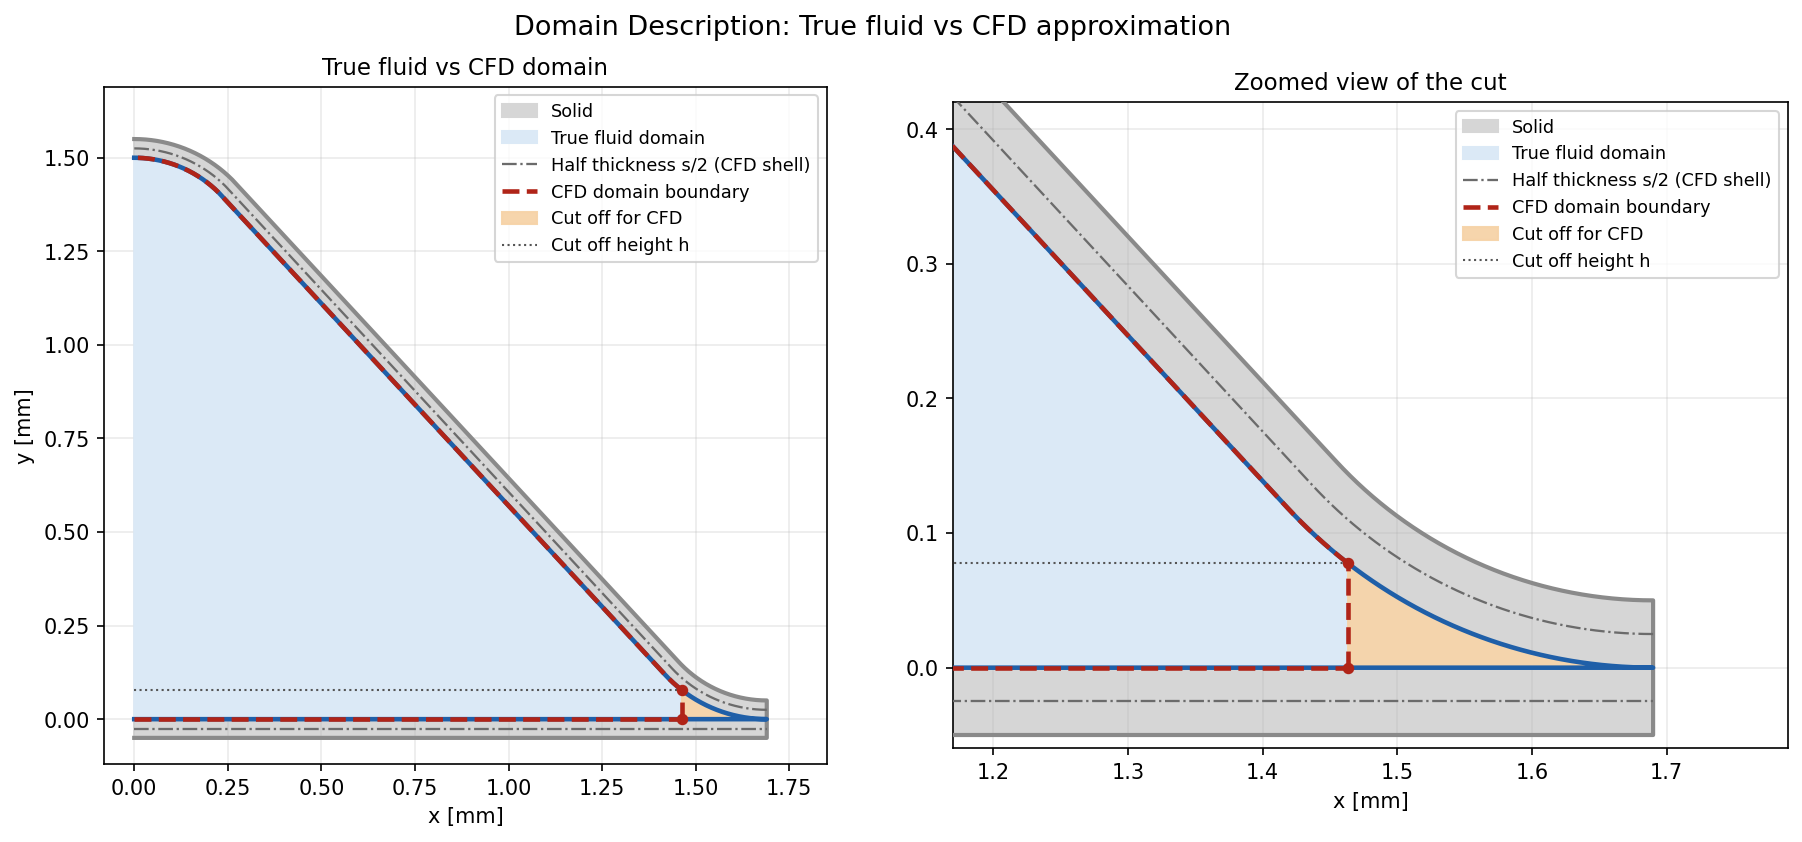
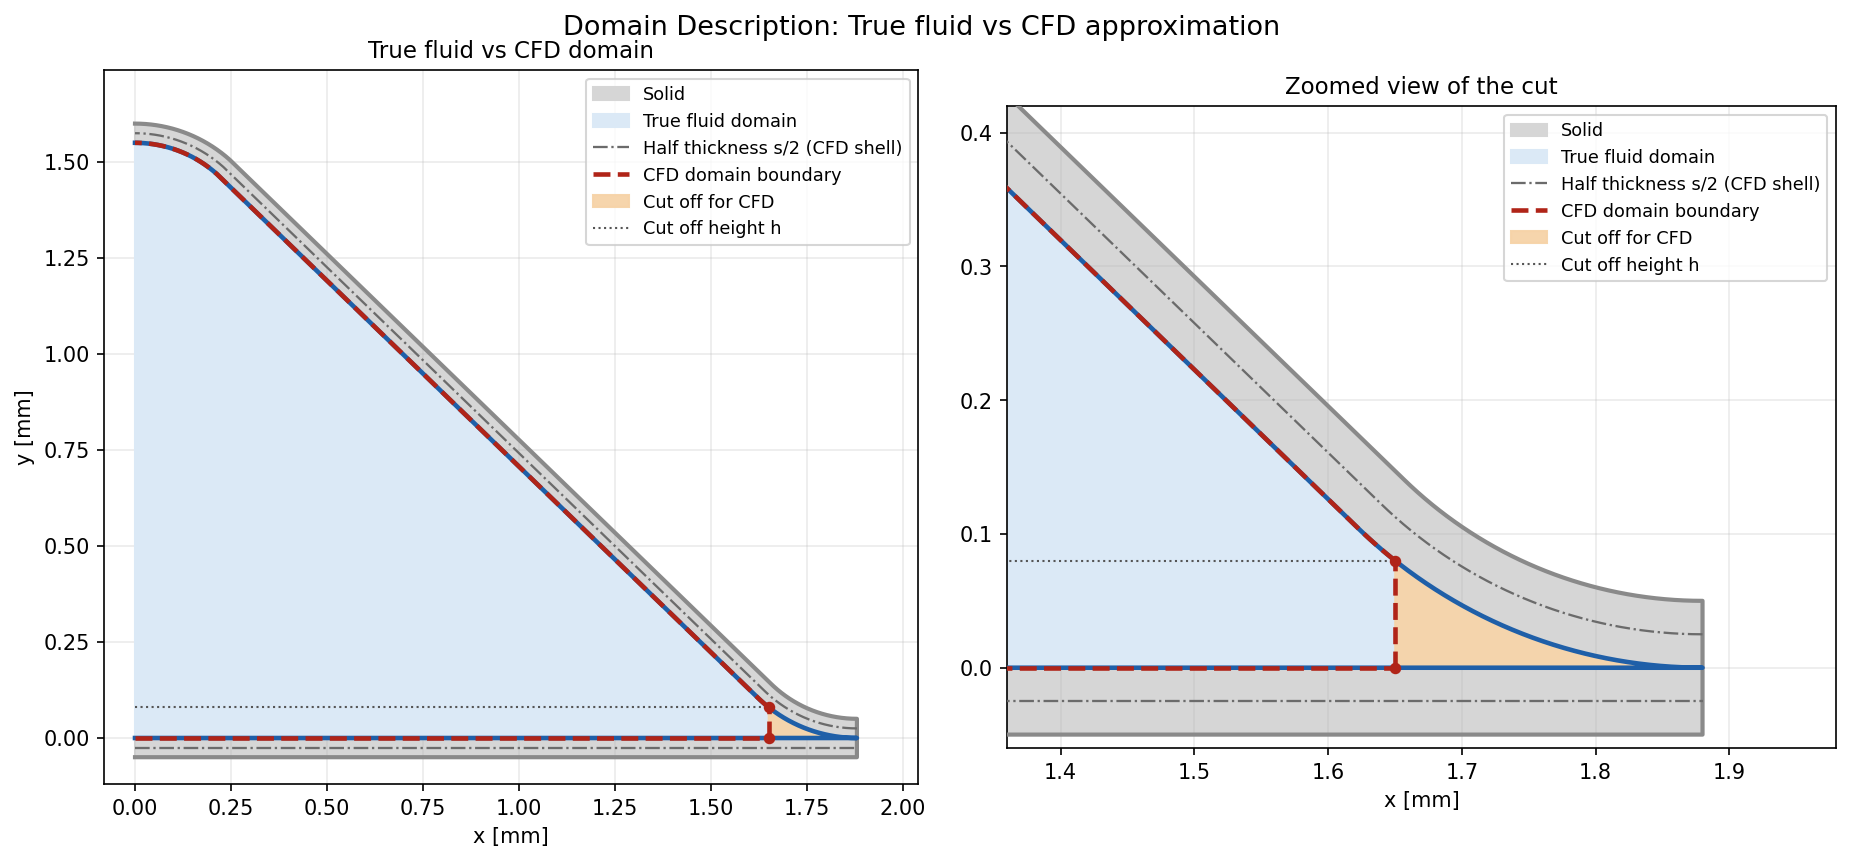
corrected baseline

diff --git a/workflows/microchannel/mesher/distribution.py b/workflows/microchannel/mesher/distribution.py
@@ -5,15 +5,15 @@ Three sizing rules, each matched to what the edge it sizes actually is:
 * **across the band** -- a layer count set at refinement 1 from the band's
   depth ``h`` (:func:`band_layers`), scaled linearly by ``refinement``,
   graded fine at the wall. ``h`` is set by the cut, not by the domain, so
-  the per-mm budget cannot size it: ``h * NY_PER_MM`` is under one cell at
-  the nominal. One array (:attr:`Sizing.band_fr`) serves every edge that
+  the per-mm budget cannot size it: ``h * NY_PER_MM`` is under one cell
+  (0.96 at h = 0.08 mm, a = 1.6 mm). One array (:attr:`Sizing.band_fr`) serves every edge that
   spans the depth.
 * **along the floor** -- see ``CutMesh.build_cut_mesh``.
 * **along the wall** -- the hypotenuse's own arclength against the global
   target cell (:func:`wall_fractions`), split piece by piece: each fillet
   by the angle it sweeps, the flank as the slack between them. Sizing the
   wall off the height's budget instead under-resolves it by the slant
-  factor (1.55x at the nominal) and folds TFI cells at the crest.
+  factor (1.55x at a = 1.55, b = 1.69 mm) and folds TFI cells at the crest.
 """
 import math
 from dataclasses import dataclass
@@ -54,7 +54,7 @@ BAND_MIN_LAYERS_REF1 = 3
 # Curvature weighting on the wall: the arcs claim a share of the cell
 # budget larger than their share of the length,
 #     share = (L_arc/L) * (1 + g) / (1 + g * L_arc/L)
-# so g = 0 is purely length-proportional. At g = 1 the nominal's arcs get
+# so g = 0 is purely length-proportional. At g = 1 the arcs of a = 1.55, b = 1.69 mm get
 # 28% of the cells for 15% of the length (crest 7.9 deg/cell); g = 3 gave
 # a 5.3 deg/cell crest, 2.8x finer than the target cell. SAG_TOL below
 # still guarantees the chord error, so coarsening here cannot starve an arc.

diff --git a/workflows/microchannel/cycle_stats.py b/workflows/microchannel/cycle_stats.py
@@ -22,7 +22,7 @@ FO_DT = "delta_T"                 # multiFieldValue: T(inlet) - T(outlet)
 # Fractions of the period T: the inlet ramp tanh(sin(2*pi*t/T) * Ts) scales
 # with T (99 % reached 0.043*T after a reversal at Ts = 10), so a fixed time
 # trim would cut into the plateau at high N_rot and keep the ramp at low N_rot.
-# The values reproduce the former 0.08 s / 0.05 s at N_rot = 75 (T = 0.8 s).
+# At N_rot = 12 (T = 5 s) they discard 0.5 s / 0.31 s at each end.
 DP_TRIM_FRAC = 0.10      # [-] of T, discarded at each end of a pass
 DT_TRIM_FRAC = 0.0625    # [-] of T
 

diff --git a/workflows/microchannel/build_case.py b/workflows/microchannel/build_case.py
@@ -56,7 +56,7 @@ GRAD_Z_DIVISIONS = [(0.2, 0.30, 10.0), (0.6, 0.40, 1.0), (0.2, 0.30, 0.1)]
 # Report slices (controlDict "slices", pv_slices.py): z positions as
 # fractions of l. They land exactly on Z layer faces (stage boundaries at
 # 0.2/0.8 l, whole cells in the uniform middle stage), where cuttingPlane is
-# ill-defined, so the planes are nudged by SLICE_NUDGE * l (6 um at l = 60).
+# ill-defined, so the planes are nudged by SLICE_NUDGE * l (11 um at l = 110).
 SLICE_Z_FRACS = (0.2, 0.4, 0.6, 0.8)
 SLICE_NUDGE = 1e-4
 

diff --git a/workflows/microchannel/README.md b/workflows/microchannel/README.md
@@ -29,26 +29,28 @@ Results are written to `runs/microchannel_default/`.
 
 A run is driven by a JSON input file. The nominal channel is given in
 [`examples/microchannel_default.json`](../../examples/microchannel_default.json).
-Its values are the defaults listed in the table.
+Its values are the defaults listed in the table: the heat wheel HX5 of
+Zmrhal et al. [1, 2] at its lowest airflow, 1 400 m³/h per stream, and the
+standard speed of 12 rpm. The papers do not give R; 0.32 mm is assumed.
 
 | Group | Field | Default | Role |
 |---|---|---|---|
-| Geometry | `channel height a [mm]` | 1.55 | height to the outer crest of the foil |
-| | `half-wavelength b [mm]` | 1.69 | crest at x = 0, trough at x = b |
+| Geometry | `channel height a [mm]` | 1.6 | height to the outer crest of the foil |
+| | `half-wavelength b [mm]` | 1.88 | crest at x = 0, trough at x = b |
 | | `crest fillet radius R [mm]` | 0.32 | forming-tool radius |
 | | `foil gauge s [mm]` | 0.05 | **full** foil thickness t |
-| | `channel length l [mm]` | 60 | wheel depth = Z extrusion length |
-| Operation | `wheel speed N_rot [rpm]` | 75 | period T = 60 / N_rot of the flow reversal |
-| | `wheel_outer_diameter D_o [mm]` | 300 | wheel face, used for the channel count |
-| | `wheel_inner_diameter D_i [mm]` | 0 | hub, used for the channel count |
-| | `stream mass flow rate mdot [kg/s]` | 0.02223815 | mass flow of one stream, split over the channels of half the wheel face |
+| | `channel length l [mm]` | 110 | wheel depth = Z extrusion length |
+| Operation | `wheel speed N_rot [rpm]` | 12 | period T = 60 / N_rot of the flow reversal |
+| | `wheel_outer_diameter D_o [mm]` | 1010 | wheel face, used for the channel count |
+| | `wheel_inner_diameter D_i [mm]` | 120 | hub, used for the channel count |
+| | `stream mass flow rate mdot [kg/s]` | 0.46666667 | mass flow of one stream, split over the channels of half the wheel face |
 | | `hot inlet temperature [K]` | 298 | T_h1, enters at the inlet patch (forward pass) |
 | | `cold inlet temperature [K]` | 278 | T_c1, enters at the outlet patch (reverse pass) |
 | | `initial temperature [K]` | 288 | initial foil (shell) temperature |
 | Mesh & solver | `mesh refinement r` | 1.0 | mesh density; cell sizes scale as 1/r |
-| | `maxCo` | 3 | Courant limit of the adjustable time step |
-| | `nCorrectors` | 8 | PIMPLE pressure correctors |
-| | `end time [s]` | 50 | hard limit on simulated time |
+| | `maxCo` | 1 | Courant limit of the adjustable time step |
+| | `nCorrectors` | 2 | PIMPLE pressure correctors |
+| | `end time [s]` | 150 | hard limit on simulated time |
 | Run-time | `number of processors` | 12 | MPI ranks (1 = serial) |
 
 ---
@@ -300,8 +302,8 @@ both directions, constant c_p) at the periodic steady state, the foil
 stores no net heat per cycle, so the hot stream's drop equals the cold
 stream's rise, T_h1 − T_h2 = T_c2 − T_c1, and ε_h = ε_c.
 
-In the nominal run this equality is not reached exactly: ε_h = 0.670 and
-ε_c = 0.672, a persistent difference of about 0.33 % (Appendix A). The
+In the nominal run this equality is not reached exactly: ε_h = 0.772 and
+ε_c = 0.774, a remaining difference of about 0.30 % (Appendix A). The
 objective therefore uses the mean of both, which averages out this offset:
 
 ```math
@@ -311,11 +313,7 @@ objective therefore uses the mean of both, which averages out this offset:
 
 where `dT_forward` = T_h1 − T_h2 and `dT_reverse` = T_c2 − T_c1 are the
 mean inlet-to-outlet temperature differences of the forward and reverse
-pass. For the nominal run, ε = 0.6695.
-
-The BO model predicts a single value, so the two objectives are combined
-with ParEGO, which merges them into one value using randomly chosen weights
-in every iteration.
+pass. For the nominal run, ε = 0.7733 and dP_avg = 29.96 Pa.
 
 ### 7.4 Failed and infeasible cases
 
@@ -389,39 +387,33 @@ Inside the practical bounds no point is rejected.
 For balanced flow (the same ṁ both ways; constant c_p, which holds here)
 at a periodic steady state, the foil stores no net heat per cycle, so the
 hot drop T_h1 − T_h2 must equal the cold rise T_c2 − T_c1 and ε_h = ε_c
-(sec. 7.3). The nominal run shows a small, persistent difference, cycle by
-cycle:
+(sec. 7.3). The nominal run shows a small difference that decays only
+slowly, cycle by cycle:
 
 | Cycle | Hot drop T_h1 − T_h2 [K] | Cold rise T_c2 − T_c1 [K] | Imbalance [K] | Imbalance [%] |
 |---|---|---|---|---|
-| 0 | 10.077 | 11.138 | −1.061 | −10.00 |
-| 1 | 11.266 | 11.771 | −0.505 | −4.39 |
-| 2 | 11.882 | 12.215 | −0.333 | −2.76 |
-| 3 | 12.299 | 12.542 | −0.243 | −1.96 |
-| 4 | 12.596 | 12.784 | −0.188 | −1.48 |
-| 5 | 12.812 | 12.963 | −0.150 | −1.17 |
-| 6 | 12.970 | 13.094 | −0.124 | −0.95 |
-| 7 | 13.086 | 13.190 | −0.104 | −0.79 |
-| 8 | 13.171 | 13.261 | −0.090 | −0.68 |
-| 9 | 13.234 | 13.312 | −0.079 | −0.59 |
-| 10 | 13.280 | 13.350 | −0.070 | −0.53 |
-| 11 | 13.314 | 13.377 | −0.063 | −0.47 |
-| 12 | 13.339 | 13.397 | −0.058 | −0.43 |
-| 13 | 13.358 | 13.411 | −0.054 | −0.40 |
-| 14 | 13.372 | 13.422 | −0.050 | −0.37 |
-| 15 | 13.382 | 13.429 | −0.047 | −0.35 |
-| 16 | 13.390 | 13.435 | −0.045 | −0.33 |
+| 0 | 10.069 | 14.047 | −3.978 | −32.99 |
+| 1 | 13.980 | 15.141 | −1.161 | −7.97 |
+| 2 | 14.864 | 15.485 | −0.621 | −4.09 |
+| 3 | 15.168 | 15.567 | −0.399 | −2.60 |
+| 4 | 15.291 | 15.571 | −0.280 | −1.82 |
+| 5 | 15.350 | 15.555 | −0.205 | −1.32 |
+| 6 | 15.384 | 15.536 | −0.152 | −0.98 |
+| 7 | 15.407 | 15.520 | −0.113 | −0.73 |
+| 8 | 15.423 | 15.507 | −0.084 | −0.55 |
+| 9 | 15.434 | 15.497 | −0.063 | −0.40 |
+| 10 | 15.443 | 15.489 | −0.046 | −0.30 |
 
-- **Cycles 0 – 8**: the foil is still giving net heat to the gas; the
-  imbalance falls from −1.06 K to −0.09 K.
-- **Cycles 10 – 16**: the imbalance keeps shrinking, but ever more
-  slowly, and is still −0.045 K (−0.33 %) when the run stops.
+- **Cycles 0 – 4**: the foil is still giving net heat to the gas; the
+  imbalance falls from −3.98 K to −0.28 K.
+- **Cycles 5 – 10**: the imbalance keeps shrinking by a constant factor of
+  about 0.74 per cycle, and is still −0.046 K (−0.30 %) when the run stops.
 
 The imbalance does not come from how the face temperatures are averaged:
 with mass-flow-weighted face temperatures (`absWeightedAverage` with
 `weightField phi`) instead of area-averaged ones it is the same. Flow
 weighting lowers the hot drop and the cold rise by the same amount, and
-with them ε by about 0.005.
+with them ε.
 
 ---
 
